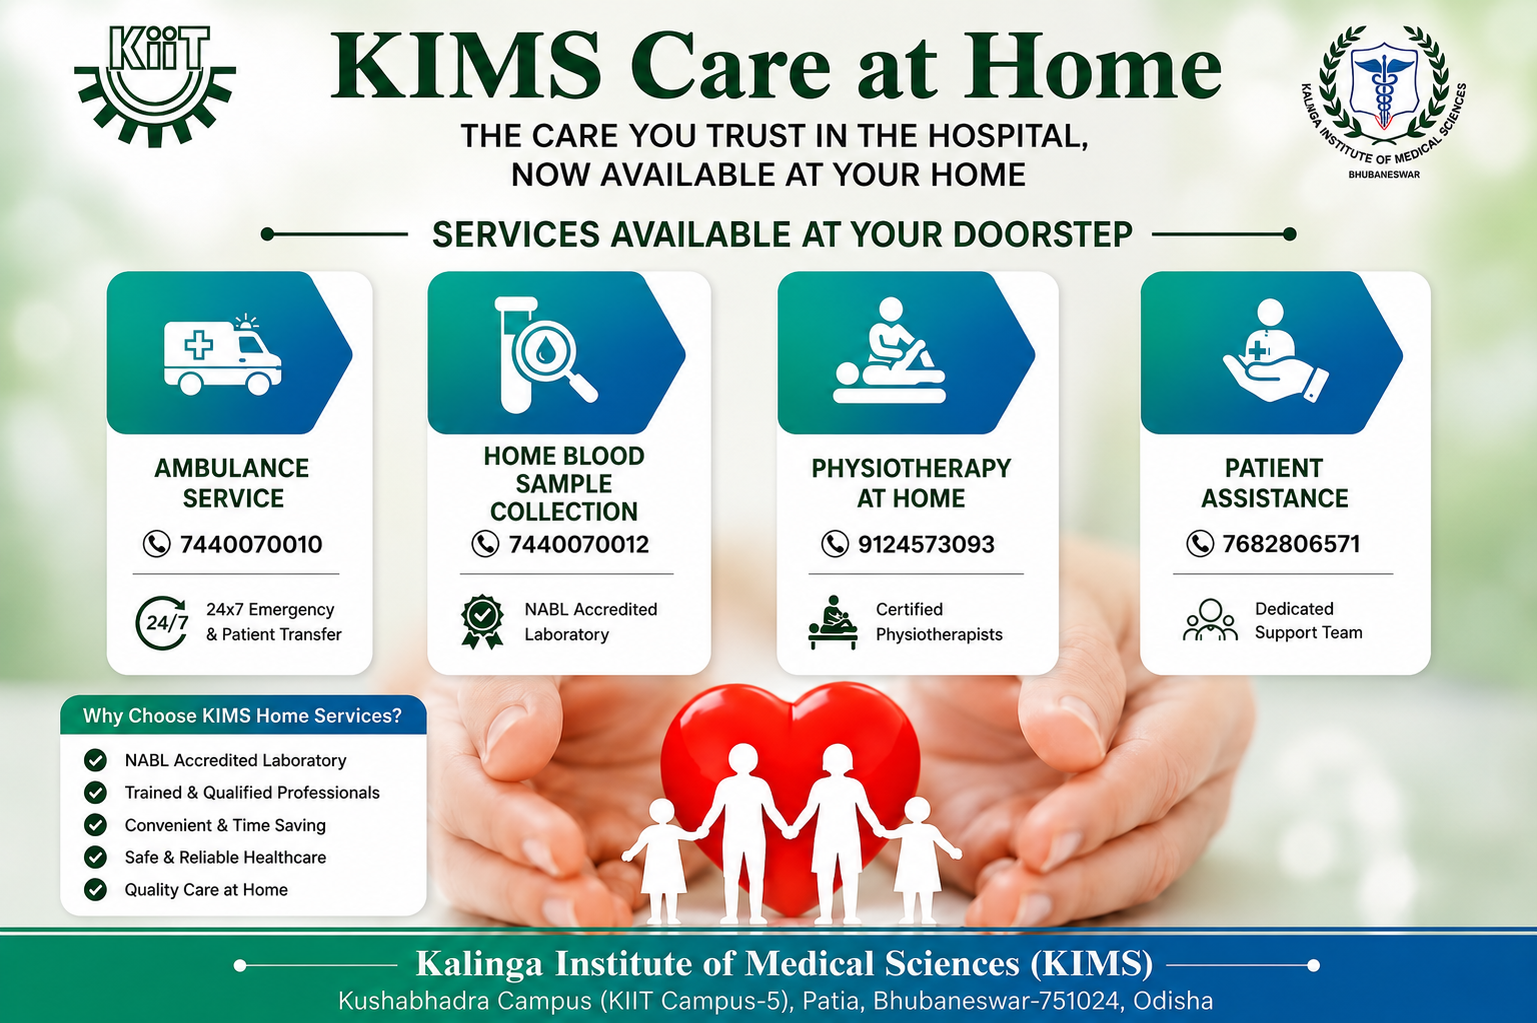
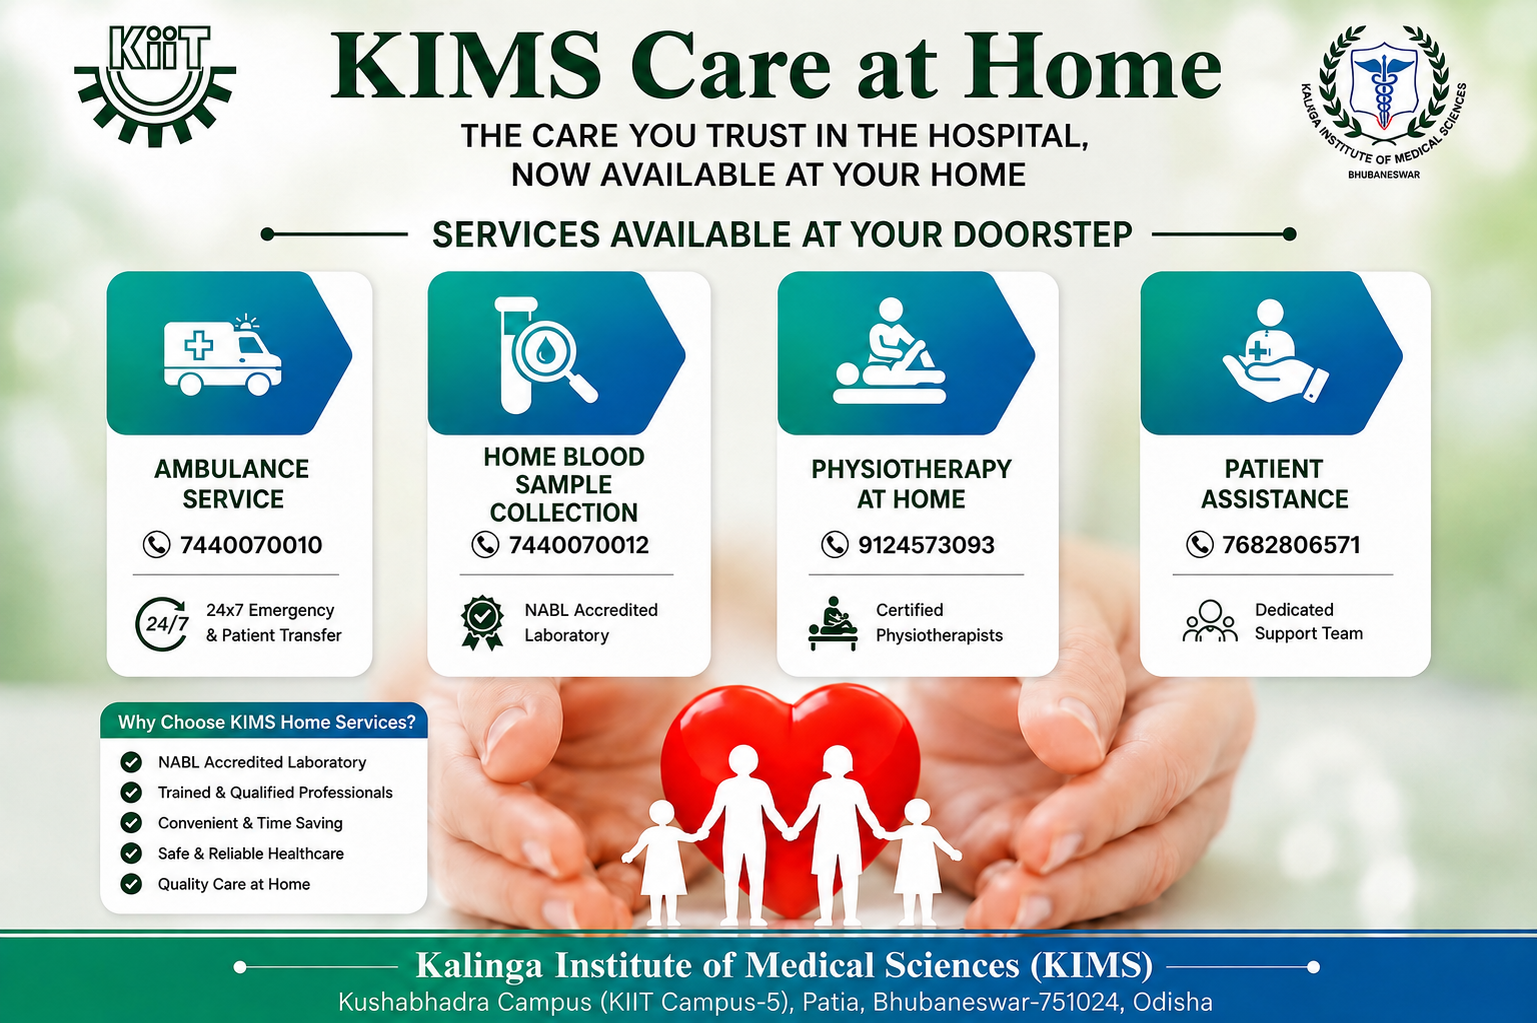
display

diff --git a/frontend/src/features/display/pages/DisplayScreen.jsx b/frontend/src/features/display/pages/DisplayScreen.jsx
@@ -86,14 +86,14 @@ const DisplayScreen = () => {
         }
         @keyframes light-sweep {
           0% { transform: translateX(-50vw) skewX(-45deg) scaleX(1); opacity: 0; }
-          25% { opacity: 0.25; transform: translateX(0vw) skewX(-40deg) scaleX(1.2); }
-          50% { opacity: 0.1; transform: translateX(50vw) skewX(-45deg) scaleX(0.8); }
-          75% { opacity: 0.25; transform: translateX(100vw) skewX(-50deg) scaleX(1.1); }
+          25% { opacity: 0.5; transform: translateX(0vw) skewX(-40deg) scaleX(1.2); }
+          50% { opacity: 0.2; transform: translateX(50vw) skewX(-45deg) scaleX(0.8); }
+          75% { opacity: 0.5; transform: translateX(100vw) skewX(-50deg) scaleX(1.1); }
           100% { transform: translateX(150vw) skewX(-45deg) scaleX(1); opacity: 0; }
         }
-        .animate-light-1 { animation: light-sweep 12s linear infinite; }
-        .animate-light-2 { animation: light-sweep 18s linear infinite 5s; }
-        .animate-light-3 { animation: light-sweep 24s linear infinite 11s; }
+        .animate-light-1 { animation: light-sweep 8s linear infinite; }
+        .animate-light-2 { animation: light-sweep 12s linear infinite 3s; }
+        .animate-light-3 { animation: light-sweep 16s linear infinite 6s; }
       `;
       document.head.appendChild(style);
       return () => document.head.removeChild(style);
@@ -207,30 +207,30 @@ const DisplayScreen = () => {
             // No videos: Just run the loop once without videos
             if (combinedPages.length > 0) allPages.push(...combinedPages);
             else allPages.push({ stepTitle: 'No schedules', duration: 10, department: null, doctors: [] });
-            
+
             allPages.push({ isBanner: true, duration: 10, bannerType: 'general' });
-            
+
             if (locationPages.length > 0) allPages.push(...locationPages);
             else allPages.push({ stepTitle: 'No schedules', duration: 10, department: null, doctors: [] });
-            
+
             allPages.push({ isBanner: true, duration: 10, bannerType: 'general' });
           } else {
             // Pair up videos and loop the sequence
             for (let i = 0; i < allBranchVideos.length; i += 2) {
               const v1 = allBranchVideos[i];
-              const v2 = allBranchVideos[i+1];
+              const v2 = allBranchVideos[i + 1];
 
               // Slot 1: After Combined
               if (combinedPages.length > 0) allPages.push(...combinedPages);
               else allPages.push({ stepTitle: 'No schedules', duration: 10, department: null, doctors: [] });
-              
+
               allPages.push({ isBanner: true, duration: 10, bannerType: 'general' });
               if (v1) allPages.push({ isVideo: true, duration: v1.duration, videoUrl: v1.url });
 
               // Slot 2: After Location
               if (locationPages.length > 0) allPages.push(...locationPages);
               else allPages.push({ stepTitle: 'No schedules', duration: 10, department: null, doctors: [] });
-              
+
               allPages.push({ isBanner: true, duration: 10, bannerType: 'general' });
               if (v2) allPages.push({ isVideo: true, duration: v2.duration, videoUrl: v2.url });
             }
@@ -409,7 +409,7 @@ const DisplayScreen = () => {
 
 
       {/* Main Content Area */}
-      <main className={`flex-1 flex flex-col z-10 overflow-hidden min-h-0 ${(!currentPage || (!currentPage.isBanner && !currentPage.isVideo)) ? 'px-12 py-6' : ''}`}>
+      <main className={`flex-1 flex flex-col z-10 overflow-hidden min-h-0 ${(!currentPage || (!currentPage.isBanner && !currentPage.isVideo)) ? 'px-14 py-8' : ''}`}>
         {currentPage && currentPage.isVideo ? (
           <div className="flex-1 flex items-center justify-center overflow-hidden bg-black h-full w-full">
             <video
@@ -453,7 +453,7 @@ const DisplayScreen = () => {
                     <div className="w-3 h-3 rounded-full bg-[#fbbd61] mr-2 shrink-0"></div>
                     <div className="w-full h-[3px] bg-[#fbbd61]"></div>
                   </div>
-                  
+
                   {/* Center Pill */}
                   <div className="bg-[#fbbd61] px-8 py-1.5 rounded-full shadow-md shrink-0">
                     <h3 className="text-[1.8rem] font-bold text-[#004d40] tracking-wide" style={{ fontFamily: '"Times New Roman", Times, serif' }}>
@@ -473,7 +473,7 @@ const DisplayScreen = () => {
                   {currentPage.doctors.map((doc, docIdx) => (
                     <div
                       key={docIdx}
-                      className="flex items-center bg-white/10 backdrop-blur-md shadow-[0_8px_32px_rgba(0,0,0,0.2)] rounded-2xl border border-white/20 px-8 py-6"
+                      className="flex items-center bg-gradient-to-b from-white/20 to-transparent backdrop-blur-md shadow-[0_8px_32px_rgba(0,0,0,0.1)] rounded-3xl border border-white/20 px-8 py-5 w-full"
                     >
                       <div className="flex items-center gap-8 w-[45%]">
                         <div className="w-36 h-36 rounded-full overflow-hidden bg-white border-[4px] border-[#fbbd61] shadow-md flex-shrink-0">
@@ -511,13 +511,12 @@ const DisplayScreen = () => {
                             }
                             const isActive = branchDays.includes(day);
                             return (
-                              <span 
-                                key={day} 
-                                className={`px-2.5 py-1.5 rounded-lg text-base border-2 uppercase tracking-wide transition-all duration-300 shadow-sm ${
-                                  isActive 
-                                    ? 'bg-[#fbbd61] text-[#004d40] font-extrabold border-[#fbbd61]' 
-                                    : 'bg-transparent text-white/40 font-semibold border-[#fbbd61]/40'
-                                }`}
+                              <span
+                                key={day}
+                                className={`px-2.5 py-1.5 rounded-lg text-base border-2 uppercase tracking-wide transition-all duration-300 shadow-sm ${isActive
+                                  ? 'bg-[#fbbd61] text-[#004d40] font-extrabold border-[#fbbd61]'
+                                  : 'bg-transparent text-white/40 font-semibold border-[#fbbd61]/40'
+                                  }`}
                               >
                                 {day}
                               </span>
